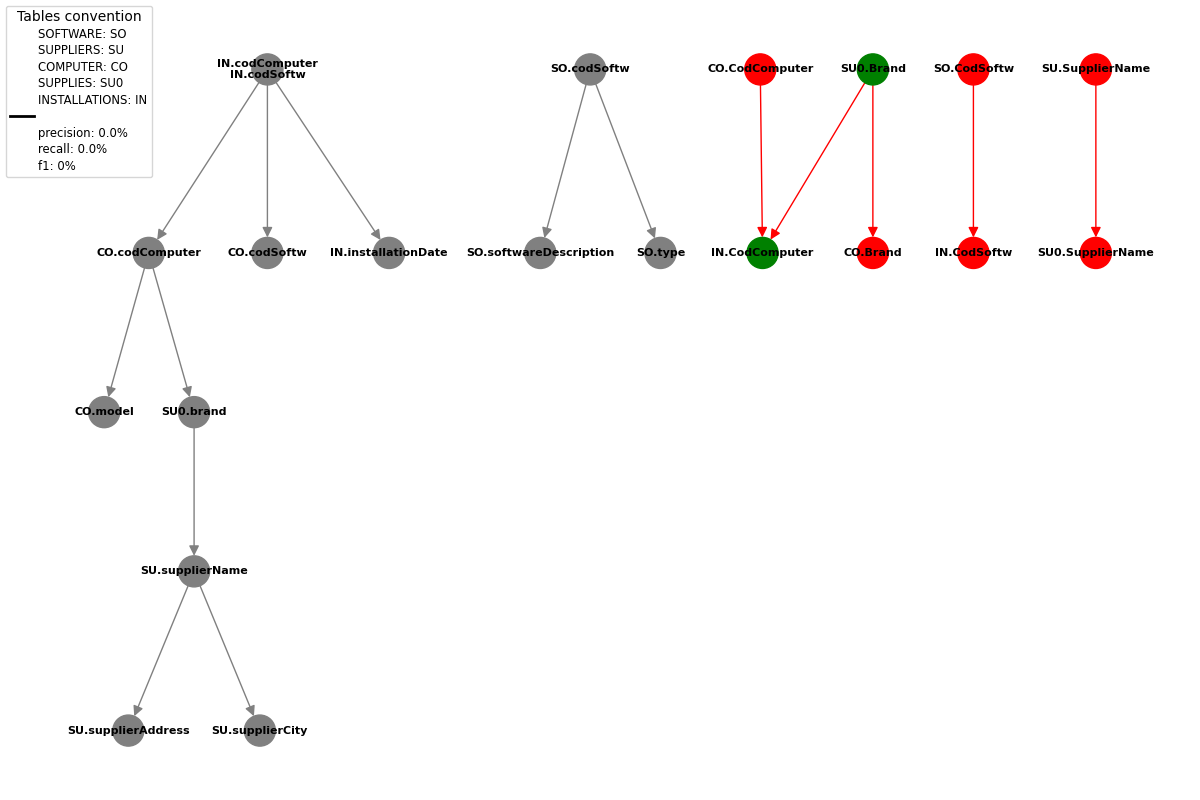
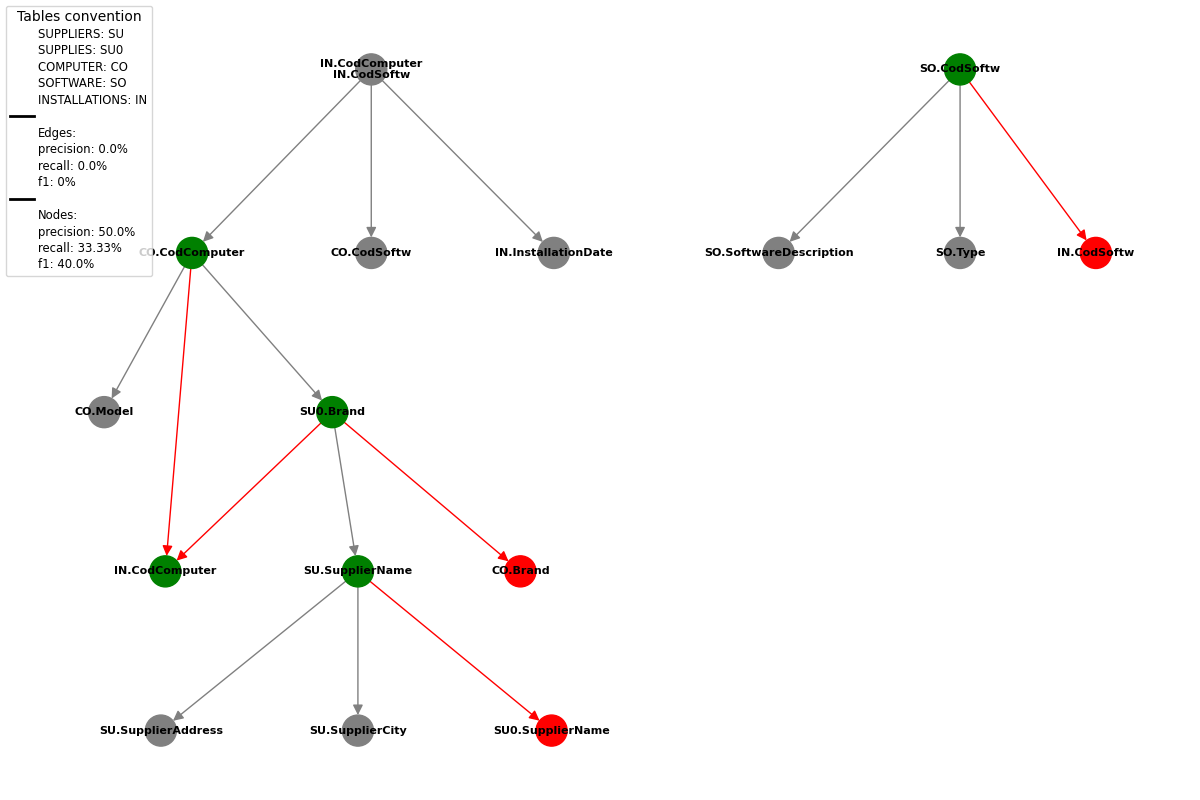
feat: add metrics output to file, refactored code

diff --git a/src/main/python/pipeline/second-step.py b/src/main/python/pipeline/second-step.py
@@ -1,83 +1,51 @@
-import collections
 from pathlib import Path
 
 import matplotlib.pyplot as plt
 import networkx as nx
 import matplotlib.lines as mlines
 
-from ssutils import (preprocess_dependencies_attributes, is_a_valid_role_dependency, is_a_valid_dependency,
-                     store_image, short_names_from_tables, get_clean_table_attribute)
+from ssutils import (preprocess_dependencies_attributes, load_edges, load_nodes, store_image, short_names_from_tables,
+                     get_metrics, get_tp_fn_fp_edges_to_list, update_output_with_metrics)
 from utils import load_yaml, load_ground_truth_exercise, load_output_exercise_and_name
 
+# Load config
 input_config = load_yaml(f'{Path().absolute()}/pipeline/second-step-config.yml')
-
 ex_config = input_config['exercise']
 model_config = input_config['model']
 
+# Load exercise
 ex_output, ex_name = load_output_exercise_and_name(ex_config['name'], ex_config['v'], ex_config['prompt_v'],
                                  model_config['name'], model_config['v'],
                                  ex_config['latest'], ex_config['timestamp'], ex_config['full_name'])
-
 ground_truth = load_ground_truth_exercise(ex_config['name'], ex_config['full_name'])
 
+# Extract dependencies
 dep_output = ex_output['output']['dependencies'] if ex_output['output'] is dict else ex_output['output'][0]['dependencies']
-
 dep_gt = ground_truth['dependencies']
 
-tables = []
+# Load edges
+edges_set_gt = load_edges(dep_gt)
+edges_set_output = load_edges(dep_output)
 
-edges_set_gt = set(
-    frozenset((key, get_clean_table_attribute(value))
-              for key, value in d.items() if is_a_valid_role_dependency(key))
-    for d in dep_gt if is_a_valid_dependency(d))
-edges_set_output = set(
-    frozenset((key, get_clean_table_attribute(value))
-              for key, value in d.items())
-    for d in dep_output)
+# Load nodes
+nodes_set_gt = load_nodes(edges_set_gt)
+nodes_set_output = load_nodes(edges_set_output)
 
-nodes_set_gt = set(
-    get_clean_table_attribute(entry[1])
-    for fr_set in edges_set_gt
-    for entry in fr_set
-)
-
-nodes_set_output = set(
-    get_clean_table_attribute(entry[1])
-    for fr_set in edges_set_output
-    for entry in fr_set
-)
-
-tp_edges = edges_set_gt & edges_set_output
-fn_edges = edges_set_gt - tp_edges
-fp_edges = edges_set_output - tp_edges
-
-tp_nodes = nodes_set_gt & nodes_set_output
-fn_nodes = nodes_set_gt - tp_nodes
-fp_nodes = nodes_set_output - tp_nodes
-
-tp_edges_count = len(tp_edges)
-fn_edges_count = len(fn_edges)
-fp_edges_count = len(fp_edges)
-
-tp_nodes_count = len(tp_nodes)
-fn_nodes_count = len(fn_nodes)
-fp_nodes_count = len(fp_nodes)
-
-precision_edges = tp_edges_count / (tp_edges_count + fp_edges_count)
-recall_edges = tp_edges_count / (tp_edges_count + fn_edges_count)
-f1_edges = 2 * ((precision_edges * recall_edges) / (precision_edges + recall_edges)) if precision_edges + recall_edges != 0 else 0
-
-precision_nodes = tp_nodes_count / (tp_nodes_count + fp_nodes_count)
-recall_nodes = tp_nodes_count / (tp_nodes_count + fn_nodes_count)
-f1_nodes = 2 * ((precision_nodes * recall_nodes) / (precision_nodes + recall_nodes)) if precision_nodes + recall_nodes != 0 else 0
+# Calculate metrics for edges and ground truth
+precision_edges, recall_edges, f1_edges = get_metrics(edges_set_gt, edges_set_output)
+precision_nodes, recall_nodes, f1_nodes = get_metrics(nodes_set_gt, nodes_set_output)
 
 metrics = {
-    'precision_edges': round(precision_edges * 100, 2),
-    'recall_edges': round(recall_edges * 100, 2),
-    'f1_edges': round(f1_edges * 100, 2),
-    'precision_nodes': round(precision_nodes * 100, 2),
-    'recall_nodes': round(recall_nodes * 100, 2),
-    'f1_nodes': round(f1_nodes * 100, 2),
+    'Edges': {
+        'precision': round(precision_edges * 100, 2),
+        'recall': round(recall_edges * 100, 2),
+        'f1': round(f1_edges * 100, 2),
+    },
+    'Nodes': {
+        'precision': round(precision_nodes * 100, 2),
+        'recall': round(recall_nodes * 100, 2),
+        'f1': round(f1_nodes * 100, 2),
+    }
 }
 
 # TODO add fact visualization
@@ -90,18 +58,13 @@ G = nx.DiGraph()
 tp_color, fn_color, fp_color = 'green', 'grey', 'red'
 dep_loop_color = 'yellow'
 
-inserted_nodes = []
-
 # Extract tables name to obtain short names
 short_names = short_names_from_tables(edges_set_gt, edges_set_output)
 
 # List of edges classified to color correctly
-tp_edges_list = [collections.OrderedDict(sorted(fs)) for fs in tp_edges]
-tp_edges_list.sort(key=lambda dependency: (dependency['from'], dependency['to']))
-fn_edges_list = [collections.OrderedDict(sorted(fs)) for fs in fn_edges]
-fn_edges_list.sort(key=lambda dependency: (dependency['from'], dependency['to']))
-fp_edges_list = [collections.OrderedDict(sorted(fs)) for fs in fp_edges]
-fp_edges_list.sort(key=lambda dependency: (dependency['from'], dependency['to']))
+tp_edges_list, fn_edges_list, fp_edges_list = get_tp_fn_fp_edges_to_list(edges_set_gt, edges_set_output)
+
+inserted_nodes = []
 
 # Add nodes and edges from the dictionaries
 for dep_list in [tp_edges_list, fn_edges_list, fp_edges_list]:
@@ -138,6 +101,7 @@ if input_config['visualization']['dag_graph']:
     if not nx.is_directed_acyclic_graph(G):
         raise Exception('Graph is not DAG, change visualization')
     pos = nx.nx_agraph.graphviz_layout(G, prog='dot')
+
 else:
     pos = nx.shell_layout(G)
 
@@ -158,9 +122,11 @@ nx.draw_networkx_edge_labels(G, pos, edge_labels=edge_labels, font_color='red')
 if input_config['visualization']['table_names']:
     legend_items = [plt.Line2D([0], [0], color='w', label=f'{full_name}: {short_name}')
                     for full_name, short_name in short_names.items()]
-    legend_items.append(mlines.Line2D([], [], color='black', linestyle='-', linewidth=2))
-    legend_items.extend([plt.Line2D([0], [0], color='w', label=f'{label}: {str(value)}%')
-     for label, value in metrics.items()])
+    for component in metrics:
+        legend_items.append(mlines.Line2D([], [], color='black', linestyle='-', linewidth=2))
+        legend_items.extend([plt.Line2D([0], [0], color='w', label=f'{component}:')])
+        for sub_metrics in metrics[component]:
+            legend_items.extend([plt.Line2D([0], [0], color='w', label=f'{sub_metrics}: {metrics[component][sub_metrics]}%')])
     plt.legend(handles=legend_items, title="Tables convention", fontsize='small', title_fontsize='medium',
                labelspacing=0.3, handletextpad=0.4, loc='upper left')
 
@@ -175,3 +141,7 @@ if input_config['visualization']['show_graph']:
 else:
     # Close the plot
     plt.close()
+
+if 'metrics' not in ex_output:
+    ex_output['metrics'] = metrics
+    update_output_with_metrics(ex_name, ex_output)

diff --git a/src/main/python/pipeline/ssutils.py b/src/main/python/pipeline/ssutils.py
@@ -1,6 +1,8 @@
 from pathlib import Path
 from dotenv import load_dotenv
 import os
+import collections
+import yaml
 
 load_dotenv()
 
@@ -22,6 +24,23 @@ def preprocess_dependencies_attributes(dependency_value, keep_tables, new_names)
         return single_dependency
 
     return '\n'.join([remove_first_part(word) for word in dependency_value.split(',')])
+
+
+# Load edges from dependency set filtering for valid role dependency
+def load_edges(dependency_set):
+    return set(
+        frozenset((key, get_clean_table_attribute(value))
+                  for key, value in d.items() if is_a_valid_role_dependency(key))
+        for d in dependency_set if is_a_valid_dependency(d))
+
+
+# Load nodes cleaned from edges set
+def load_nodes(edges_set):
+    return set(
+        get_clean_table_attribute(entry[1])
+        for fr_set in edges_set
+        for entry in fr_set
+    )
 
 
 # Dependencies to consider in second step
@@ -103,6 +122,43 @@ def short_names_from_tables(gt, output):
     return short_names
 
 
+# Calculates metrics from ground_truth set and generated set
+def get_metrics(ground_truth, generated):
+    tp = ground_truth & generated
+    fn = ground_truth - tp
+    fp = generated - tp
+
+    tp_count = len(tp)
+    fn_count = len(fn)
+    fp_count = len(fp)
+
+    precision = tp_count / (tp_count + fp_count)
+    recall = tp_count / (tp_count + fn_count)
+    f1 = 2 * ((precision * recall) / (precision + recall)) if precision + recall != 0 else 0
+
+    return precision, recall, f1
+
+
+# Build list of edges of type from -> to
+def get_tp_fn_fp_edges_to_list(ground_truth, generated):
+    tp = ground_truth & generated
+    fn = ground_truth - tp
+    fp = generated - tp
+    tp_list = [collections.OrderedDict(sorted(fs)) for fs in tp]
+    tp_list.sort(key=lambda dependency: (dependency['from'], dependency['to']))
+    fn_list = [collections.OrderedDict(sorted(fs)) for fs in fn]
+    fn_list.sort(key=lambda dependency: (dependency['from'], dependency['to']))
+    fp_list = [collections.OrderedDict(sorted(fs)) for fs in fp]
+    fp_list.sort(key=lambda dependency: (dependency['from'], dependency['to']))
+
+    return tp_list, fn_list, fp_list
+
+
 # Used to store graph image
 def store_image(plt, name, img_format):
     plt.savefig(f'{outputs}{Path(name).stem}.{img_format}', format=img_format)
+
+
+def update_output_with_metrics(file, result_with_metrics):
+    with open(f'{outputs}{file}', 'w+') as outfile:
+        yaml.dump(result_with_metrics, outfile, default_flow_style=False, sort_keys=False, allow_unicode=True)
